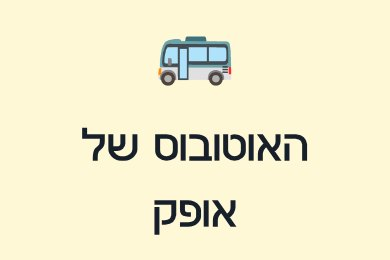
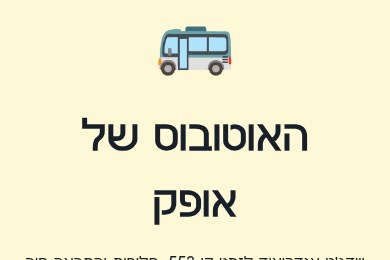
Fix bus crop

diff --git a/index.html b/index.html
@@ -77,7 +77,7 @@ footer{text-align:center;color:var(--mut);font-size:12.5px;margin-top:34px;opaci
   <div class="go">פתיחה <svg viewBox="0 0 16 16" fill="none" stroke="currentColor" stroke-width="2" stroke-linecap="round" stroke-linejoin="round"><path d="M10 3 5 8l5 5"/></svg><span class="url">/focus-ofek</span></div></div>
  </a>
  <a class="card" style="--a:#ffd43b" href="https://horizonbuilds.github.io/bus-553-widget/">
-  <div class="shot"><img src="img/bus-553-widget.jpg?v=2" width="390" height="260" loading="lazy" alt="צילום מסך של עמוד ההורדה של ווידג'ט קו 553"></div>
+  <div class="shot"><img src="img/bus-553-widget.jpg?v=3" width="390" height="260" loading="lazy" alt="צילום מסך של עמוד ההורדה של ווידג'ט קו 553"></div>
   <div class="body"><div class="top"><span class="name">האוטובוס של אופק</span><span class="tag">אנדרואיד</span></div>
   <p class="desc">ווידג'ט לזמני קו 553, עם חלופות והתראה חיה.</p>
   <div class="go">פתיחה <svg viewBox="0 0 16 16" fill="none" stroke="currentColor" stroke-width="2" stroke-linecap="round" stroke-linejoin="round"><path d="M10 3 5 8l5 5"/></svg><span class="url">/bus-553-widget</span></div></div>
